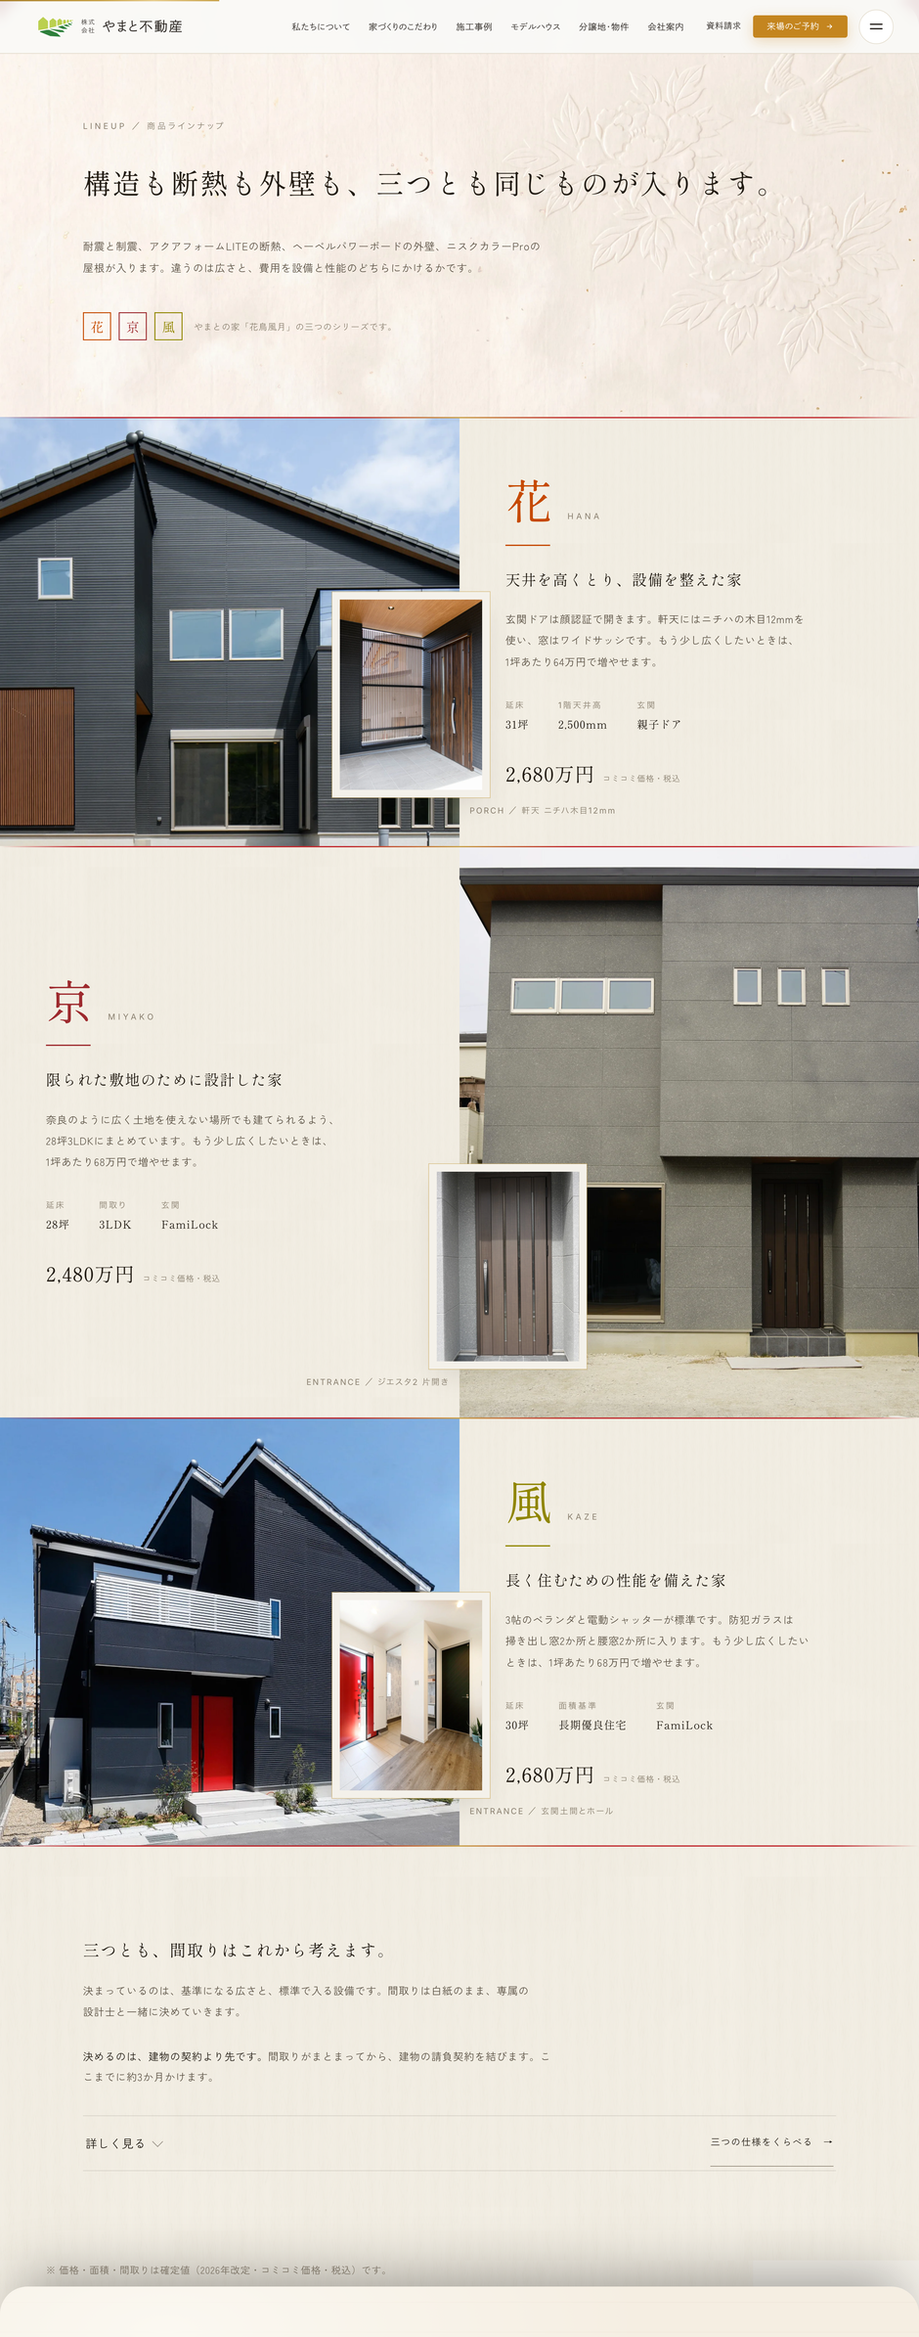
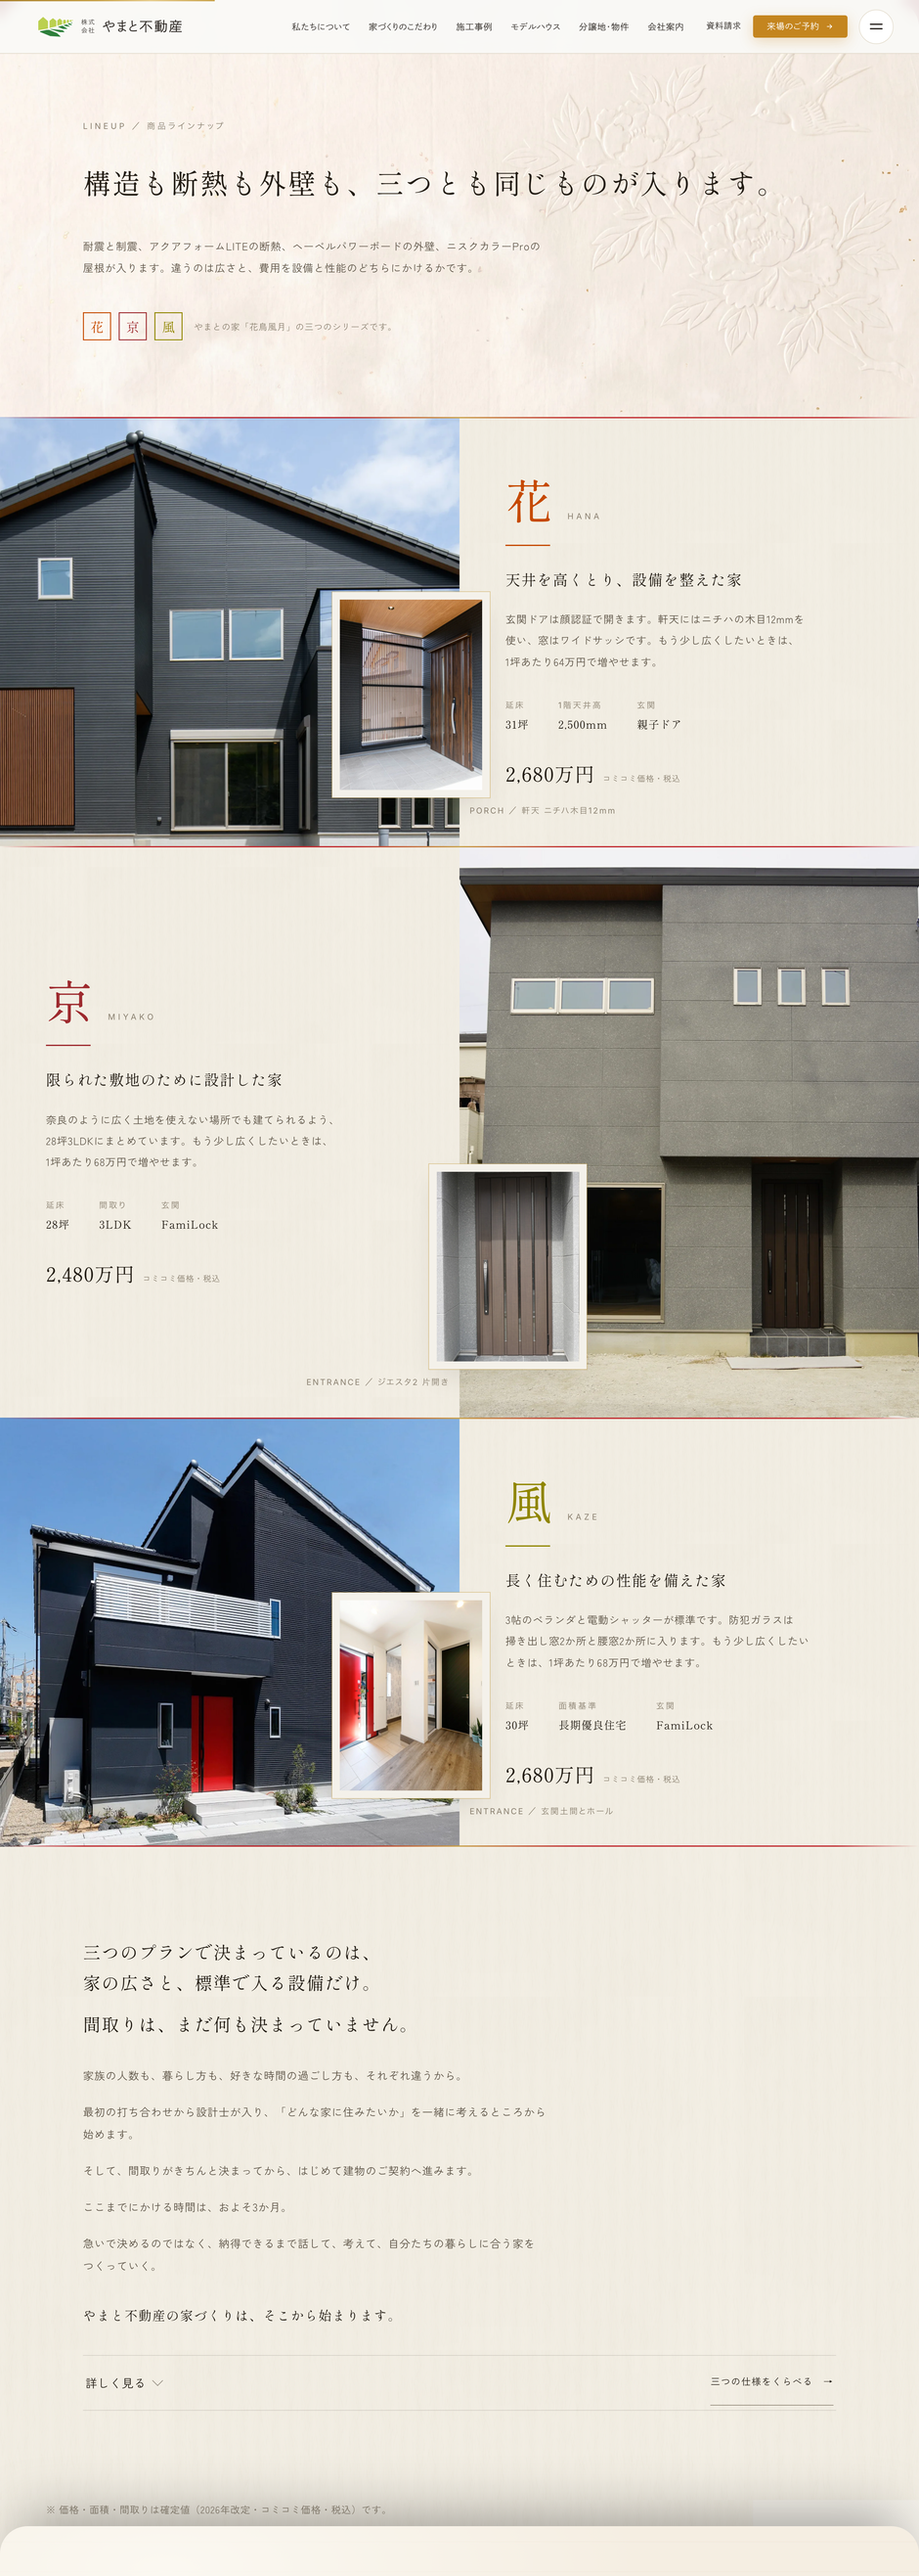
lineup: 自由設計の本文をユーザー指定コピーに差し替え（一字一句そのまま）
私が書いた版は3回続けて却下された。ユーザーが書いた230字をそのまま採用する。
事実は全て照合済みで、変更はゼロ:
・設計士が最初の打ち合わせから同席 → パンフ p16
・間取りが決まってから建物の請負契約 / 約3か月 → 現行サイト produce の家づくりの流れ
・決まっているのは広さと標準設備 → 仕様比較表

組版はユーザーの行の分け方に従った。1〜2行目を見出し格（明朝）、3〜7行目を本文、
最終行「やまと不動産の家づくりは、そこから始まります。」を着地として置いている。

構成の変更を1件:
台帳の「これから決めるもの」の行を削除した。本文が
「間取りは、まだ何も決まっていません」「最初の打ち合わせから設計士が入り」で
完全に含んでしまい、畳んだ中で同じことを繰り返すため。
残る2行は「変わらないもの／変えられるもの」で対になる。

私の版が却下された理由は7点あり、指示書
`スキルについて/依頼_copywriterに品質基準を足す_20260820.md` に全て記録した。
要約すると: 何がしか書かず「なぜ」を落とす／圧縮しすぎる／「だけ」の一語で
読者の取り分を消す／体言止め禁止を過剰適用して全文を同じ語尾にする／
話し言葉とくだけた言葉を取り違える／副詞で論点を立てない／着地せず止まる。

mobile-verify: #lineup 由来の FAIL 0。

diff --git a/index.html b/index.html
@@ -808,6 +808,17 @@
   @media (prefers-reduced-motion:reduce){ .lu-more summary::after{transition:none} }
 
   .lu-free{max-width:46em}
+  /* ユーザー指定コピー（2026-08-20）。一字一句そのまま。行の分け方も指定どおり。
+     1〜2行目を見出し格、3〜7行目を本文、最終行を着地として組む。 */
+  .lu-free__lead{margin:0 0 clamp(10px,1.2vw,16px);text-wrap:balance;line-break:strict;word-break:auto-phrase;
+    font-family:var(--lu-fm);font-weight:400;
+    font-size:clamp(1.22rem,1.02rem + .84vw,1.72rem);line-height:1.76;letter-spacing:.06em}
+  .lu-free__lead + .lu-free__p{margin-top:clamp(28px,3.2vw,40px)}
+  .lu-free__p{margin:0 0 clamp(14px,1.7vw,22px);line-break:strict;word-break:auto-phrase;
+    font-size:clamp(.98rem,.94rem + .2vw,1.06rem);line-height:2.06;letter-spacing:.045em;color:var(--lu-sumi2)}
+  .lu-free__end{margin:clamp(28px,3.2vw,40px) 0 0;line-break:strict;word-break:auto-phrase;
+    font-family:var(--lu-fm);font-weight:400;
+    font-size:clamp(1.06rem,.98rem + .38vw,1.28rem);line-height:1.86;letter-spacing:.06em;color:var(--lu-sumi)}
   /* 台帳＝決まっている／決まっていない／変えられる の三段。
      「自由設計」は語として無価値化しており（大阪府が契約トラブルに警告を出す水準）、
      賢い読者ほど疑って読む。だから語を強めず、線引きを先に開示する。
@@ -1633,9 +1644,14 @@
   <div class="lu-cl">
     <div class="lu-cl__in">
       <div class="lu-free">
-        <p class="lu-free__h">三つとも、間取りは<span>これから考えます。</span></p>
-        <p class="lu-free__b">決まっているのは、基準になる広さと、標準で入る設備です。間取りは白紙のまま、専属の設計士と一緒に決めていきます。</p>
-        <p class="lu-free__sig"><b>決めるのは、建物の契約より先です。</b>間取りがまとまってから、建物の請負契約を結びます。ここまでに約3か月かけます。</p>
+        <p class="lu-free__lead">三つのプランで決まっているのは、家の広さと、標準で入る設備だけ。</p>
+        <p class="lu-free__lead">間取りは、まだ何も決まっていません。</p>
+        <p class="lu-free__p">家族の人数も、暮らし方も、好きな時間の過ごし方も、それぞれ違うから。</p>
+        <p class="lu-free__p">最初の打ち合わせから設計士が入り、「どんな家に住みたいか」を一緒に考えるところから始めます。</p>
+        <p class="lu-free__p">そして、間取りがきちんと決まってから、はじめて建物のご契約へ進みます。</p>
+        <p class="lu-free__p">ここまでにかける時間は、およそ3か月。</p>
+        <p class="lu-free__p">急いで決めるのではなく、納得できるまで話して、考えて、自分たちの暮らしに合う家をつくっていく。</p>
+        <p class="lu-free__end">やまと不動産の家づくりは、そこから始まります。</p>
       </div>
       <div class="lu-doors">
         <details class="lu-more">
@@ -1645,8 +1661,6 @@
             <dl class="lu-led">
               <div class="lu-led__row"><dt>変わらないもの</dt>
                 <dd><b>構造と断熱、外壁と屋根、それに標準で入る設備です。</b>もうひとつ、基準になる広さも決まっています。三つのプランで違うのは、この広さと、設備をどこまで載せるかだけです。</dd></div>
-              <div class="lu-led__row"><dt>これから決めるもの</dt>
-                <dd><b>間取りです。</b>部屋の数も配置も決まっていません。専属の設計士が、打ち合わせの最初から同席して考えます。</dd></div>
               <div class="lu-led__row"><dt>変えられるもの</dt>
                 <dd><b>広さです。</b>1坪あたり64万円から増やせます。この金額には、増えた分の基礎3.3㎡も含まれています。</dd></div>
             </dl>
